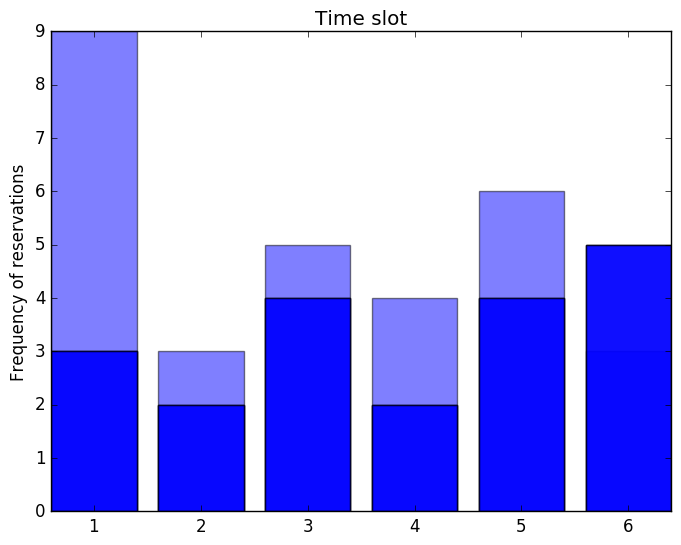
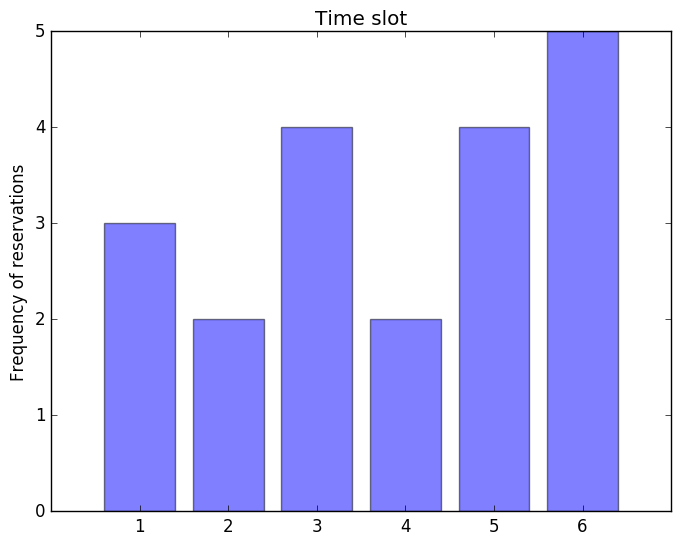
Fixed bugs in scripts

diff --git a/Backend/scripts/inventory_visualization.py b/Backend/scripts/inventory_visualization.py
@@ -60,7 +60,7 @@ for hotel in hotels_list:
 		plt.title('Quantity in kg')
 		fname = str(hotel) + "_inventory.png"
 		plt.savefig(fname)
-
+		plt.clf()
 		y_pos = None
 
 

diff --git a/Backend/scripts/orders_visualization.py b/Backend/scripts/orders_visualization.py
@@ -73,3 +73,4 @@ for hotel in hotels_list:
 		fname = str(hotel) + "_populardishes.png"
 
 		plt.savefig(fname)
+		plt.clf()

diff --git a/Backend/scripts/peakhours_visualization.py b/Backend/scripts/peakhours_visualization.py
@@ -60,5 +60,7 @@ for hotel in hotels_list:
 
 		plt.savefig(fname, bbox_inches='tight')
 
+		plt.clf()
+
 
 
